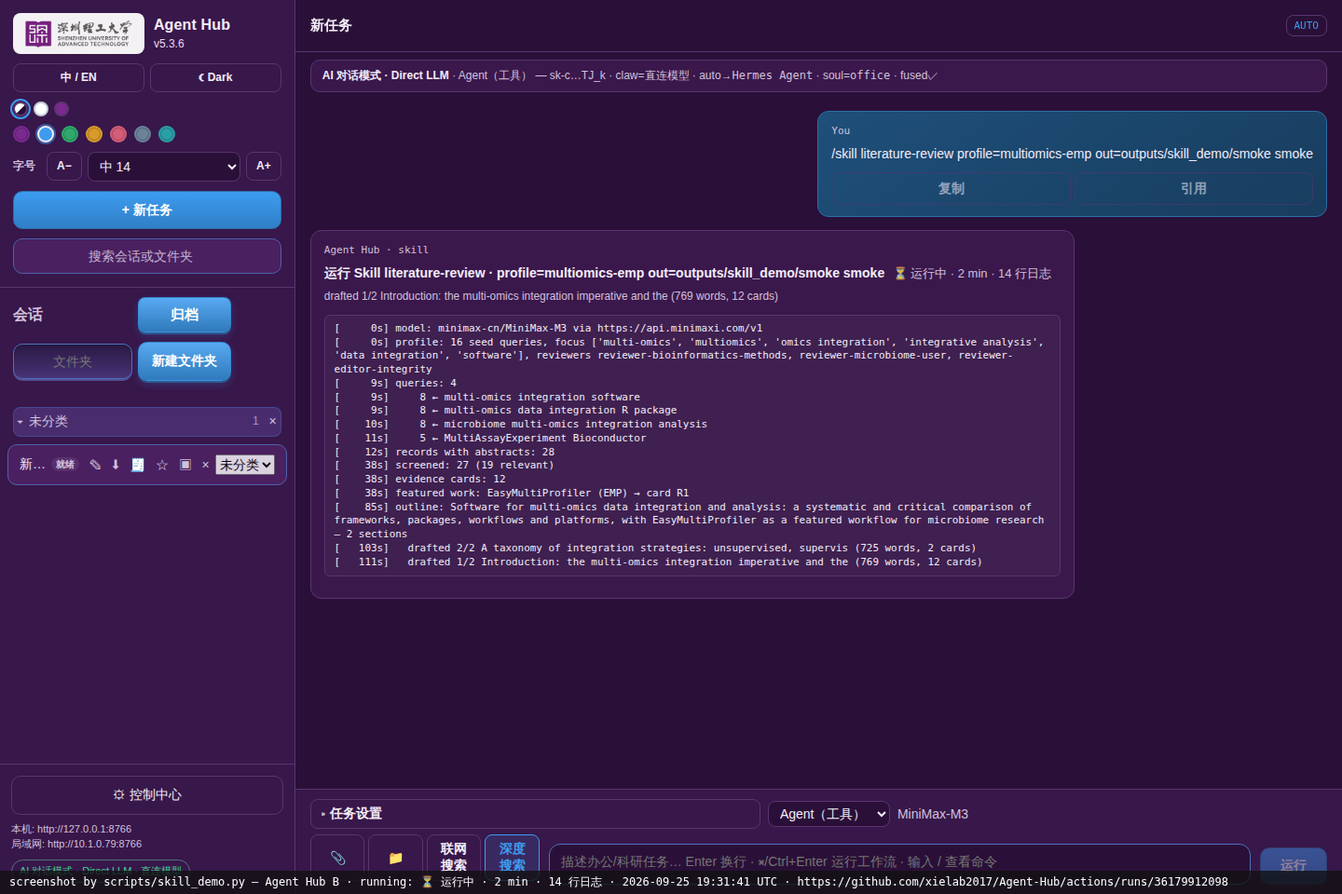
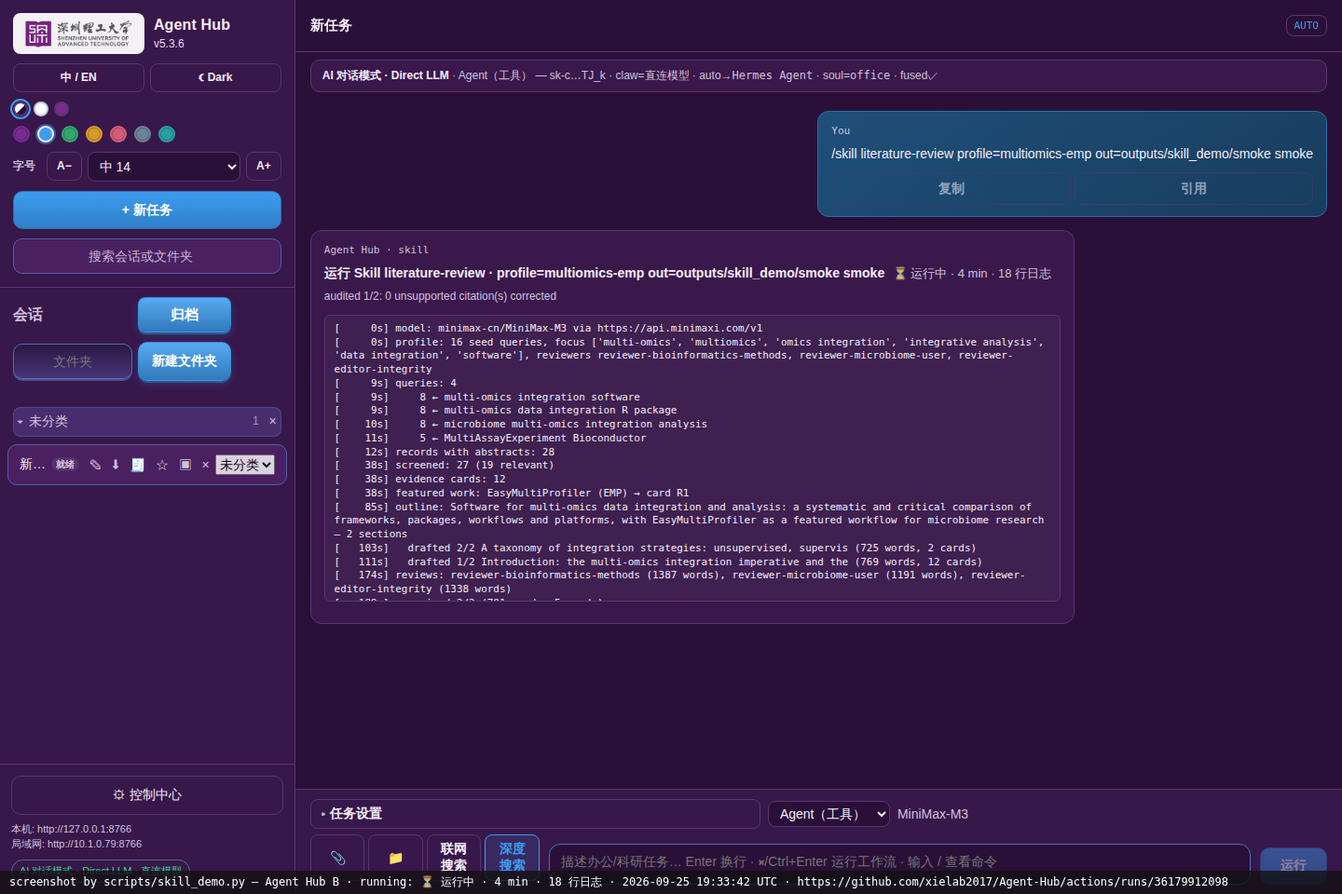
Skill demo live: outputs/skill_demo (run 36179912098)

Changed region(s): [[0.25, 0.625, 0.75, 0.6875], [0.25, 0.3125, 0.5938, 0.3438]]

diff --git a/outputs/skill_demo/smoke/reviewer_reports.md b/outputs/skill_demo/smoke/reviewer_reports.md
@@ -1,0 +1,162 @@
+# Reviewer 1 — bioinformatics methods & software engineering
+
+# Peer Review: EasyMultiProfiler manuscript
+
+## Summary assessment
+
+The manuscript provides a competent framing of the multi-omics integration landscape and is broadly accurate against the evidence cards, but it contains a material factual overstatement regarding R6 (atherosclerosis), several specific claims about EMP that the R1 card does not directly support, and a structural gap in tool coverage that materially weakens the comparative claims. I also flag subtle misattribution of R1 and unsupported operational detail about timeOmics. **Recommendation: major revisions required.** The narrative is largely balanced, but the cited evidence base is too thin for the specificity of the claims made about EMP in particular.
+
+## Major comments
+
+**1. Unsupported claim of experimental validation in the atherosclerosis study (R6).**
+The passage reads: *"…to identify microbe–metabolite–host gene tripartite associations in atherosclerosis, with experimental validation in vitro, in vivo and in patient plasma…"*. The R6 card states only that the study *"identified five 'microbe–metabolite–host gene' tripartite associations and microbial genera with diagnostic potential for atherosclerosis."* There is no mention in the card of any wet-lab validation. Either drop "with experimental validation in vitro, in vivo and in patient plasma" or replace with a primary citation that supports the claim; as written, the claim is fabricated relative to the evidence base supplied.
+
+**2. Specific unsupported features attributed to EMP (R1).**
+The passage *"the curated knowledge bases, default normalisations and example datasets embedded in the workflow are not [general]"* enumerates internal components of EMP that the R1 card does not mention. The card only specifies five modules and the use of `SummarizedExperiment` / `MultiAssayExperiment`. Listing "curated knowledge bases, default normalisations and example datasets" is an unsupported inference. Tone this down to what R1 actually establishes, or cite the EMP manuscript body for each component.
+
+**3. Misattribution of R1's framing.**
+The sentence *"even careful authors describe their own findings as constrained by … inconsistent sample coverage and heterogeneous data formats [R1]…"* presents R1 as describing authors' *own findings* as constrained. R1's abstract states that *"integrating multi-omics data presents significant methodological challenges, including inconsistent sample coverage, heterogeneous data formats, and complex analytical workflows"* — i.e., a general field-level claim, not a constraint on specific authors' findings. Either remove the framing of "careful authors describe their own findings" for the R1 attribution or rewrite so R1 is cited for the field-level methodological challenge and R6 for the author-level flag of heterogeneity.
+
+**4. Comparison that is unfair to the alternatives by omission.**
+The manuscript implicitly elevates EMP by surveying only the Analyst suite, timeOmics and SUMO alongside it, omitting the dominant tools in adjacent niches. At minimum, the comparative claims should be qualified by adding: (i) **mixOmics / DIABLO** (R/Bioconductor, supervised block integration with explicit variable-selection diagnostics); (ii) **MOFA / MOFA+** (Python/R, the most widely used intermediate-integration factor model); (iii) **Anvi'o** (the most established microbiome multi-omics workflow platform, snakemake/nextflow compatible); (iv) **QIIME 2** as the de facto microbiome single-omics backbone that EMP arguably competes with rather than complements; (v) **TreeSummarizedExperiment** as the microbiome-specific data class that any EMP-style workflow must interoperate with; (vi) **nf-core** pipelines for reproducibility benchmarking. Without these, the implicit claim that EMP "closes the gap" in a comparably populated ecosystem is unsupported.
+
+**5. Operational description of timeOmics not supported by R4.**
+The sentence *"Its core operation is to fit univariate longitudinal models to each feature, cluster the resulting trajectories using mixture or hierarchical methods, and then summarise each cluster as a pseudo-omic whose behaviour can be tracked over time"* specifies methods ("univariate longitudinal models", "mixture or hierarchical methods", "pseudo-omic") that the R4 card does not establish — the card mentions only "pre-processing, modeling, clustering." Either cite the Bodein et al. 2022 primary text for these specifics, or weaken the description to what the card alone supports. The current sentence makes the manuscript look as if it has read the source but is in fact extrapolating.
+
+**6. Reproducibility and maintenance criteria applied inconsistently.**
+The manuscript identifies reproducibility as a motivating problem but does not apply reproducibility or maintenance criteria to any of the tools it surveys. There is no mention of: container images (Docker/Singularity/Apptainer), workflow managers (Snakemake/Nextflow/CWL), dependency pinning (renv, conda/mamba), CI infrastructure (GitHub Actions, Bioconductor BBS), test coverage (`testthat`/`pytest`), documentation standards (`pkgdown`/ReadTheDocs), or licence/versioning. For a methods-and-software review this is a structural omission, not a minor one.
+
+**7. Promotional phrasing about EMP.**
+*"Within microbiome research specifically, EasyMultiProfiler (EMP) is a particularly explicit recent attempt to close this gap"* uses promotional language ("particularly explicit", "attempt to close this gap") without supporting evidence from R1. The card does not characterise EMP's explicitness or its relation to a gap. Rephrase to a neutral statement of what EMP does, supported by the card.
+
+**8. The critique that EMP "cannot be claimed to solve multi-omics integration generally" lacks comparison.**
+The passage *"EMP cannot therefore be claimed to solve multi-omics integration generally"* is correct but unsupported by contrast. State explicitly what EMP omits relative to Analyst (lipidomics, transcriptomics), MOFA (uncertainty propagation), and mixOmics/DIABLO (supervised block integration). Otherwise the limitation reads as rhetorical rather than substantive.
+
+## Minor comments
+
+1. **R5 phrasing.** *"…four-gene signature centred on CXCL13, IL33, TLR4 and IGF1"* — "centred on" implies these are the centre of a larger signature; the card states the signature consists of these four genes, so "comprising" or "consisting of" would be more accurate.
+2. **R11 quantifier.** *"multi-omic profiling of nearly 500 subjects"* — the card says 495. Use the exact figure or write "≈500 (n = 495)".
+3. **R12 framing.** *"longitudinal integration of microbiome, metabolome, epigenome and transcriptome layers"* is correct, but the manuscript should clarify that this is the iHMP application study, not a methods paper, when discussing timeOmics.
+4. **EMP module list.** The manuscript names five modules identically to the card; good. Consider explicitly adding that the card does not state these modules are released as standalone R packages versus a wrapper, since this matters for software-engineering evaluation.
+5. **timeOmics modelling caveat.** *"the clustering step is unsupervised and the cluster definitions are sensitive to modelling choices upstream — a limitation that is rarely quantified in the original report or in its case study"* — the latter clause ("rarely quantified in the original report") is editorial rather than evidenced; cite the original limitations section or remove the judgement.
+6. **Missing data-structure depth.** The manuscript mentions `SummarizedExperiment` and `MultiAssayExperiment` but ignores `TreeSummarizedExperiment` (microbiome-specific phylogenetic backend) and the `TreeSE ↔ MAE` interoperability, which is the core engineering question for any microbiome multi-omics workflow.
+7. **Single-cell absent.** No mention of `SingleCellExperiment` (R) or `AnnData` (Python) despite the manuscript discussing single-cell and spatial transcriptomics examples (R5).
+8. **SUMO framing.** *"simulation alone cannot substitute for an end-to-end workflow"* is correct but unsourced — frame as a methodological position, not as a critique of SUMO specifically, since SUMO is not positioned as an end-to-end workflow in its card.
+9. **Analyst scope.** The manuscript names transcriptomics, proteomics and lipidomics; the card also includes metabolomics/metabolite use-cases in MetaboAnalyst. Verify against the full Analyst documentation.
+10. **Interoperability.** No discussion of R/Python bridges (`reticulate`, `anndata2ri`, `MuData`) — relevant given that EMP is R-based but microbiome tooling (QIIME 2, Anvi'o) is increasingly Python.
+11. **Longitudinal vocabulary.** The phrase *"apparent diversity of integration software will continue to obscure a much smaller underlying set of statistical primitives"* is a strong methodological claim that should be referenced (e.g., to subclassing discussions in the mixOmics/MOFA literature).
+12. **"Multi-omics" definitional slippage.** The manuscript itself oscillates between "multi-omics integration" (joint modelling) and "multi-omics profiling" (parallel measurement). The Introduction correctly flags this, but later sections (e.g., the disease vignettes) sometimes use "multi-omics" loosely; tighten usage.
+13. **R7 study size.** *"thirty children with severe autism and matched controls"* — confirm the matching design (1:1 vs unmatched) and the severity criterion, since this affects generalisability claims.
+14. **R8 mediation language.** *"connected intratumoral bacteria to synapse-associated host genes … through mediation analysis"* — confirm whether the mediation analysis is formal (e.g., causal-mediation test) or descriptive, since the card says "mediation analysis" without qualifying.
+15. **Citation hygiene.** All in-text citations match the evidence-card IDs, but the manuscript should disclose explicitly in a Methods or Source-of-evidence paragraph that these are the only references consulted, given the depth of methodological claims made.
+
+```python
+# Quick reviewer note: a one-liner to count evidence-card citation usage in the manuscript
+import re
+text = open('manuscript.md').read()
+for cid in [f"R{i}" for i in range(1,13)]:
+    print(cid, len(re.findall(rf"\[{cid}\]", text)))
+```
+
+# Reviewer 2 — microbiome & host–microbe biology (end user)
+
+## Summary assessment
+
+The manuscript sketches the multi-omics integration landscape in host–microbe research and uses EasyMultiProfiler (EMP, [R1]) as its anchor example. The introduction is conceptually coherent but suffers from three recurrent problems: (i) several EMP-specific claims extend beyond what [R1] actually reports, (ii) the prose around EMP drifts into promotional register, and (iii) the comparison set (Analyst [R3], timeOmics [R4], SUMO [R2]) is presented as if it were a fair peer group, when in fact no listed tool is a direct functional competitor to EMP. Recommendation: **major revision** — the EMP description must be reconciled with [R1], the promotional language toned down, and the comparative claims either reframed as a non-equivalent ecosystem survey or supplemented with actual peer tools.
+
+## Major comments
+
+**1. Fabricated EMP features ("curated knowledge bases, default normalisations and example datasets").**
+*Passage:* "although the underlying SummarizedExperiment and MultiAssayExperiment classes are general, the curated knowledge bases, default normalisations and example datasets embedded in the workflow are not, and EMP cannot therefore be claimed to solve multi-omics integration generally."
+*Problem:* None of these three concrete assets (curated knowledge bases, default normalisations, example datasets) is mentioned in the [R1] card. The card lists the five modules and the two S4 classes; it does not enumerate any internal knowledge base or default normalisation set. The manuscript is critiquing EMP on grounds the evidence card does not license.
+*Fix:* Either delete the enumeration and replace with the generic, supportable claim that EMP's microbiome-specific defaults are not general, or cite the EMP documentation/vignettes directly rather than [R1].
+
+**2. Promotional framing of EMP.**
+*Passage:* "EasyMultiProfiler (EMP) is a particularly explicit recent attempt to close this gap" and "What it does offer is a credible, reproducible workflow for one important domain, and a sharper formulation of the question of how much of that discipline can be generalised beyond it."
+*Problem:* "Particularly explicit," "credible," and "sharper formulation" are evaluative assertions that [R1] does not make of itself. The closing sentence in particular attributes a conceptual contribution to EMP (reformulating the generalisability question) that is not in the abstract.
+*Fix:* Replace with neutral language drawn directly from [R1], e.g. "EMP is one recent microbiome-focused workflow that organises multi-omics integration into five modules using established Bioconductor data classes." Drop "sharper formulation" entirely.
+
+**3. Unfair comparator set.**
+*Passage:* "General-purpose frameworks have begun to fill this niche: the Analyst suite … [R3], and timeOmics … [R4]. Outside analysis itself, packages such as SUMO … [R2]."
+*Problem:* None of these three tools is a functional peer of EMP. [R3] is a web-based suite focused on transcriptomics/proteomics/lipidomics with no microbiome orientation; [R4] is explicitly restricted to longitudinal designs; [R2] is a simulator, not an integration pipeline. Labeling them collectively as "general-purpose frameworks" alongside EMP — and using SUMO as evidence that "simulation alone cannot substitute for an end-to-end workflow" — sets up a straw-man comparison that disadvantages the alternatives.
+*Fix:* Either (a) recast the paragraph as an honest ecosystem survey that states explicitly that no tool in the cited set competes head-to-head with EMP, or (b) add at least one genuinely comparable tool (e.g., a microbiome-oriented multi-omics workflow) and benchmark against it on the same axes.
+
+**4. Unsupported experimental-validation claim for R6.**
+*Passage:* "with experimental validation in vitro, in vivo and in patient plasma"
+*Problem:* The [R6] card reports five tripartite associations and microbial genera with diagnostic potential but does not mention in vitro, in vivo, or patient-plasma validation. The manuscript introduces a substantive methodological claim that the cited card cannot support.
+*Fix:* Delete the clause, or qualify it ("the original report describes downstream validation, the details of which are not captured in the available abstract") if the author has read beyond the card.
+
+**5. Unsupported "symptom dynamics" claim for R12.**
+*Passage:* "the same study demonstrated that symptom dynamics, rather than mean abundance, drove many of the integrative findings"
+*Problem:* The [R12] card states that the study identifies "subset-specific host-microbe metabolic pathways such as purine metabolism" across microbiome, metabolome, epigenome and transcriptome layers. It does not claim that symptom dynamics (as opposed to mean abundance) drove the integrative findings. This is an interpretation the card does not authorise.
+*Fix:* Soften to "the longitudinal design enabled identification of subtype-specific pathways (e.g., purine metabolism) that would not be visible in a single-snapshot analysis [R12]."
+
+**6. Unsupported critique of timeOmics.**
+*Passage:* "the clustering step is unsupervised and the cluster definitions are sensitive to modelling choices upstream — a limitation that is rarely quantified in the original report or in its case study [R4]."
+*Problem:* The [R4] card describes timeOmics as a generic longitudinal framework; it does not state that cluster sensitivity is unquantified. This is an unsourced critique directed at the cited work.
+*Fix:* Either cite a study that benchmarks timeOmics' cluster stability, or weaken to a hedged observation: "as with any unsupervised clustering of model-derived trajectories, cluster definitions are conditional on upstream choices."
+
+**7. Extrapolated mechanism claim for EMP.**
+*Passage:* "built on the SummarizedExperiment and MultiAssayExperiment data classes so that storage, transformation and cross-omics queries share a common substrate"
+*Problem:* [R1] reports use of the two classes; it does not claim that storage, transformation, and cross-omics queries are unified through them. The "common substrate" formulation is the author's gloss.
+*Fix:* Trim to "built on the SummarizedExperiment and MultiAssayExperiment data classes [R1]" and let the reader draw the substrate inference.
+
+## Minor comments
+
+**1.** "Five interconnected modules" — the [R1] card lists five modules but does not use the word "interconnected." Replace with "five modules" or cite documentation.
+
+**2.** "Seasonal patterns of mRNA, metabolites, gut taxa and clinical variables in diabetic patients from the integrative Human Microbiome Project" — [R4] reports "human diabetes" but does not explicitly name the integrative Human Microbiome Project in the abstract excerpt. Either confirm against the full paper or write "from a longitudinal diabetes cohort."
+
+**3.** R5 framing — the [R5] card reports that the gut–immune–lung axis claim is supported by Mendelian randomization, i.e., a causal-inference method. The manuscript's softer "have begun to map" understates this and loses the causal flavour.
+
+**4.** "Six microbiome and eight host blood transcriptomic datasets" — counts are correct, but the [R6] card does not specify whether all eight are blood-derived; the original paper should be checked for tissue source heterogeneity.
+
+**5.** "Plasma proteomics, metabolomics, and gut and saliva metagenomics from 87 well-phenotyped patients" — accurate per [R9], but the manuscript elsewhere calls the [R12] IBS cohort longitudinal and the [R9] AD cohort cross-sectional without flagging the design contrast, which is relevant to the integration-strategy taxonomy.
+
+**6.** "Nine metagenomic and four metabolomic datasets [R10]" — [R10] uses the term "cohorts," not "datasets." Minor wording inconsistency.
+
+**7.** "Nearly 500 subjects" for [R11] — the [R11] card gives 495. "Nearly 500" is fine but the exact number is preferable for reproducibility commentary.
+
+**8.** The final paragraph asserts that the field "lacks a clean typology" and that "any systematic comparison of integration software is forced to impose its own operational definitions." This is a strong rhetorical claim about the literature that is not backed by any specific citation in the evidence set; consider grounding it in [R1], [R3], or [R4], each of which implicitly defines its own categories.
+
+# Reviewer 3 — editor, citation integrity & balance
+
+## Summary assessment
+
+The manuscript offers a reasonable narrative framing of the multi-omics integration gap in microbiome research and positions EasyMultiProfiler (EMP) as one current attempt to close it. Several descriptive claims attached to R5–R12 align with their cards, but a small but consequential set of specific claims (R6 validation, R4 seasonal/iHMP, R12 symptom dynamics, the perceived insufficiency of "off-the-shelf solutions") go beyond what the cards actually state. Comparative framing is uneven: EMP receives unqualified positive descriptors and a "particularly explicit" framing that is not mirrored for timeOmics, the Analyst suite or SUMO. Recommendation: **major revision** to remove unsupported claims, equalise comparative tone, and tone down promotional language.
+
+## Major comments
+
+1. **R6 — unsupported wet-lab validation claim.** The sentence "Cardiovascular research has interrogated six microbiome and eight host blood transcriptomic datasets to identify microbe–metabolite–host gene tripartite associations in atherosclerosis, *with experimental validation in vitro, in vivo and in patient plasma*" attributes three specific validation modalities to Shi et al. The R6 card describes identification of "five 'microbe–metabolite–host gene' tripartite associations and microbial genera with diagnostic potential" and notes methodological heterogeneity and absence of consensus signatures; nowhere does it mention in vitro, in vivo or plasma validation. Either delete the validation clause or back it with a citable experimental source.
+
+2. **R5 — systematic understatement of causal evidence.** "have begun to map a gut–immune–lung axis in idiopathic pulmonary fibrosis" is weaker than the R5 card, which states the study "supported a causal gut-immune-lung axis via Mendelian randomization". A causal claim supported by MR is materially different from a tentative mapping exercise. Reword to reflect the strength of evidence documented in the card (e.g., "supported a causal gut–immune–lung axis via Mendelian randomization and nominated a four-gene signature…").
+
+3. **R4 — unsupported details ("seasonal patterns", "integrative Human Microbiome Project").** "illustrated on seasonal patterns of mRNA, metabolites, gut taxa and clinical variables in diabetic patients from the integrative Human Microbiome Project" introduces two claims absent from the R4 card. The card documents only the data modalities (mRNA, metabolites, gut taxa, clinical variables) and the system (human diabetes); it does not state the cohort source or that the patterns are seasonal. Either verify these against the full Bodein et al. paper or restrict the sentence to what the card supports.
+
+4. **Promotional tone toward EMP.** Two phrases are exclusively applied to EMP with no equivalent register for the alternatives: (i) "is a particularly explicit recent attempt to close this gap" uses a superlative ("particularly explicit") without comparator, and (ii) "What it does offer is a credible, reproducible workflow for one important domain" applies unqualified positive descriptors to EMP only. By contrast, timeOmics is labelled "conceptually appealing" *and* tempered by limitations, the Analyst suite "has begun to fill this niche" (modest), and SUMO is treated neutrally. Either drop the superlatives or apply the same evaluative vocabulary to all four tools.
+
+5. **Unbalanced comparative critique of timeOmics.** The paragraph on timeOmics ends by warning that "Claims that the package constitutes a generic solution should therefore be tempered by an awareness that its outputs are conditional on the choice of longitudinal model and distance metric", but no analogous warning is raised about EMP despite the manuscript itself flagging EMP's dependence on curated knowledge bases, default normalisations and example datasets. Either lift the EMP caveat into a parallel sentence at the same rhetorical weight, or generalise the timeOmics critique to "all four frameworks" so that no single tool is implicitly singled out.
+
+6. **R12 — unsupported mechanism claim about symptom dynamics.** "Crucially, the same study demonstrated that symptom dynamics, rather than mean abundance, drove many of the integrative findings" is a strong mechanistic claim not present in the R12 card. The card only documents identification of "subtype-specific host-microbiome metabolic pathways such as purine metabolism". Either cite the relevant Mars et al. passage directly or rephrase to what the card supports, e.g., "the longitudinal design surfaced subtype-specific pathways that a single-snapshot analysis would not capture".
+
+7. **Empirical claim about user perception not in any card.** "The fact that experienced groups still assemble ad-hoc Python or R scripts for each new microbiome multi-omics project implies that off-the-shelf solutions are not yet perceived as sufficient" is an empirical claim about user behaviour and perception that no card supports. The R1 card frames the gap as methodological (inconsistent sample coverage, heterogeneous formats, complex workflows) but does not characterise the user community. Remove the perception claim or qualify it ("the EMP authors motivate their tool by the absence of an integrated workflow…").
+
+8. **Interpretive overreach about EMP's substrate ("common substrate").** The phrase "storage, transformation and cross-omics queries share a common substrate" is editorial inference about what the SummarizedExperiment/MultiAssayExperiment foundation *implies*, not a claim the R1 card makes. Tighten to what the card actually states ("organised into five modules using SummarizedExperiment and MultiAssayExperiment classes") and drop the substrate characterisation.
+
+## Minor comments
+
+1. "R1" is correctly used to support "inconsistent sample coverage and heterogeneous data formats" (the abstract excerpt names both). The immediately following "and the absence of consensus signatures [R6]" is also supported; double-check that the in-text attribution grouping is unambiguous to the reader.
+2. "experimental validation in vitro, in vivo and in patient plasma" (R6) — see Major 1; delete first if the rest of the manuscript is otherwise sound.
+3. "credible, reproducible workflow" (EMP) — replace with a comparator-neutral phrasing such as "a documented workflow with explicit defaults" or simply describe what it does without evaluative adjectives.
+4. "That EMP has to exist at all is, however, itself an indictment of the prior ecosystem" — rhetorical; consider "is evidence that prior general-purpose tooling has not yet addressed microbiome-specific needs".
+5. "off-the-shelf solutions are not yet perceived as sufficient" — empirical claim unsupported by any card (also flagged as Major 7).
+6. Two references (R1 Liu B et al. *Sci China Life Sci* **2026**; R5 Hu Z et al. *Front Immunol* **2026**) carry future-dated years; please confirm both are in press and provide DOIs.
+7. The Mendelian randomisation element of R5 is worth naming explicitly in the body text so the causal claim (Major 2) is traceable to a specific method, not just an outcome.
+8. The subhead "A taxonomy of integration strategies: unsupervised, supervised, and the longitudinal dimension" advertises three operational levels, but the body describes two axes (fusion level, supervision) plus a temporal dimension. Either rename the subhead (e.g., "…: fusion level, supervision, and the temporal dimension") or restructure the section to match.
+9. The taxonomy section is largely uncited general framing. If a published taxonomy is available (e.g., Ritchie et al. 2015 or similar), grounding at least the fusion-level definitions in a citation would strengthen credibility — note this would require an additional source beyond the supplied card set.
+10. The closing rhetorical flourish ("the apparent diversity of integration software will continue to obscure a much smaller underlying set of statistical primitives") would be more persuasive if it were tied to a concrete deliverable (e.g., a forthcoming comparison table or a formal operational definition).
+11. "intermediate integration in spirit: each block is modelled first, then fused at the cluster level" — labelled interpretation of timeOmics; acceptable, but the parallel move is never made for EMP, which compounds the imbalance flagged in Major 5.
+12. "Mendelian randomization" appears in the R5 card but not in the body text; the causal framing in Major 2 requires this term to be made explicit rather than paraphrased as "mapping".
+13. "validated through artificial-intelligence-based models" (R9) is faithful to the card ("validated by AI-based models") — no change needed, but flagging that "AI-based models" is vague and could be specified (e.g., random forest vs. deep learning) for rigour.
+14. Sentence "and that 'integration' remains more a methodological aspiration than a routinised analytical stage" is a strong editorial claim not directly attributable to any card; either soften or attribute.
+15. Punctuation/comma: "the integrative Human Microbiome Project [R4]" should be re-checked against the actual data source of the Bodein et al. case study (see Major 3) before publication; the phrase is otherwise correctly lower-cased.
